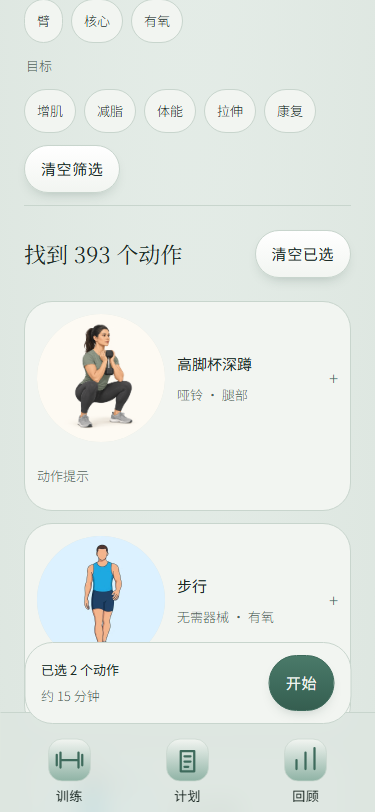
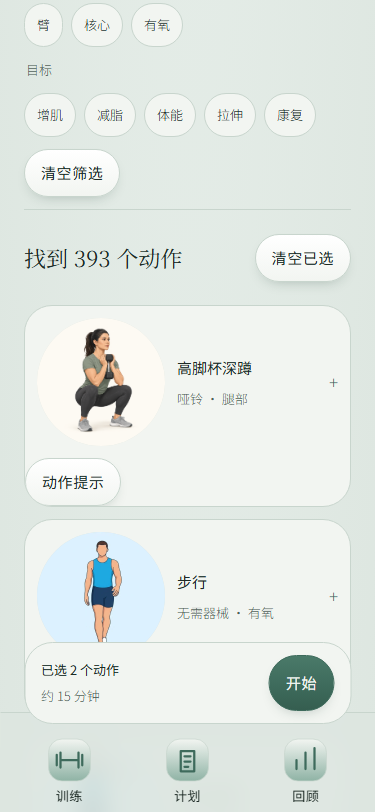
docs: record completed polish audit and refreshed preview evidence

diff --git a/docs/handoff-v8/mainline-polish-plan.md b/docs/handoff-v8/mainline-polish-plan.md
@@ -27,7 +27,7 @@
 4. 集成预览以全新浏览器资料完成两条用户路线；375/1280截图含用户列出的全部状态，四主题数字检查。无真机则明确标注。
 5. 一个 PR 列出四线覆盖、差异、待审项、授权与翻译抽查；CI全绿后等待用户确认。确认后才一次合并/生产发布。
 
-当前：四线实现及8项公网预览验收通过，唯一 PR #52 已创建，CI 检查中。用户已批准新增四步话术及等义英文、保留原形象的本地头像去背景处理。本次 PR 为 #52；未合并 main、未发布生产。
+当前：唯一 PR #52；审计列出的六类缺口及独立审查发现的边界问题均已补齐，最新验证见文末。用户已批准新增四步话术及等义英文、保留原形象的本地头像去背景处理。未合并 main、未发布生产。下文早期证据保留为历史记录，不代表最新部署版本。
 
 ## 集成验收证据
 
@@ -48,3 +48,10 @@
 ## 2026-10-11 审计缺口补齐（同一 PR #52）
 沿用本文件唯一计划，范围仅为六项已确认缺口。动作数据线负责cardio/弹力带/注意标签和后置排序；手动线负责无结果建议、完整指导、AI候选导入；回顾线负责候选时长共用估算；统筹负责动作库完整指导与建议、共享组件及集成。新AI入口复用现有成人门槛、外发清单、明确同意和版本校验；导入手动候选不保存或替换计划，用户开始训练才保存训练记录。无付费模型请求。
 验收：过滤/排序正反例；无结果可选择近似动作；动作库/手动详情有要点、步骤、错误、注意及署名；AI有效/无资格/失败/拒绝/旧版本输入；所有候选时长一致且不改旧记录；375/1280预览及完整CI。未验证的真机和专业姿势审查不伪称完成。
+
+最终修复代码：79aea38。六项缺口已实现：相近结果UI、手动AI候选、筛选标签、注意排序、完整指导、回顾时长。独立审查另外修复收藏候选过滤顺序、重复动作目标保留和手动AI候选时长一致。
+- 类型、构建、样式/话术、前后端提示词边界通过；111个单元文件、888项通过，29跳过/5 todo不计入完成。
+- 手动训练13项集成浏览器通过；最终重复条目/时长变更2项定向复测通过。AI均HTTP模拟，拒绝外发零请求、无资格零生成、服务失败本地候选、旧版本/恢复代次拒绝保存、原计划不变。
+- 动作库4项浏览器通过，包含收藏内建议、器械过滤、完整指导、收藏持久化与英文；回顾时长有缺陷红绿验证及月回顾窗口场景。
+- 预览 Worker：230a990c-7473-4068-a88e-ac57034f897c；仍无生产绑定和供应商密钥。最终公网验收结果见outputs/mainline-polish/README.md；远程完整CI以PR52最新提交检查为准。
+- main/生产未变；需用户验收后才合并发布。桌面模拟不替代真机，中文指导/生成人物姿势未声称专业审核。

diff --git a/outputs/mainline-polish/README.md b/outputs/mainline-polish/README.md
@@ -2,7 +2,13 @@
 
 隔离预览：https://fitness-mainline-polish-preview.initdevl.workers.dev
 
-Worker版本：e133eaf1-5712-4bb2-b1ce-36b228a88e41。2026-10-11，Chromium新浏览器资料，375/1280宽度，合成输入；无真实设备、无付费模型。10项公网预览验收通过（37.3秒），包括新增人物图加载。截图关闭捕获时动画以避免记录胶囊中间帧。
+Worker版本：230a990c-7473-4068-a88e-ac57034f897c；修复代码79aea38。2026-10-11，Chromium新浏览器资料，375/1280宽度，合成输入；无真实设备、无付费模型。最终12项公网预览验收通过（39.8秒），包括两条主线、人物图、无结果相近建议及完整指导。截图关闭捕获时动画以避免记录胶囊中间帧。
+
+新增审计修复截图：
+- [375手动相近结果](preview-375-manual-near-matches.png) / [1280](preview-1280-manual-near-matches.png)
+- [375手动完整指导](preview-375-manual-full-guide.png) / [1280](preview-1280-manual-full-guide.png)
+- [375动作库完整指导](preview-375-library-full-guide.png) / [1280](preview-1280-library-full-guide.png)
+- [375手动AI候选模拟](mock-375-manual-ai-candidate.png) / [1280](mock-1280-manual-ai-candidate.png)：仅本地HTTP合成返回，验证重复动作目标、估算和确认界面，不能当作真实DeepSeek响应证据。
 
 - [preview-1280-appearance-撞色.png](preview-1280-appearance-撞色.png)
 - [preview-1280-appearance-留白.png](preview-1280-appearance-留白.png)

diff --git a/docs/handoff-v8/pending-decisions.md b/docs/handoff-v8/pending-decisions.md
@@ -181,3 +181,5 @@ RepDB官方证据：[数据许可证](https://github.com/RepDB/exercise-dataset/
 | 支撑动作注意标签过粗 | 区分前臂与手掌支撑；提示及排序使用同一标签；不当作医学适用判断 | 避免漏提示和一概标注手腕 | exercise-guide、catalog-service |
 | 详情遗漏部分指导、旧视频参考需保留 | 共享完整Guide内容；动作库保留原可选视频来源且不重复示意图 | 保留署名与已有功能 | ExerciseGuide、ExerciseMedia、ExercisesPage |
 | 回顾候选修改动作后时长过期 | 仅新候选重算实际时长及短版名称；用户原时长和历史不改 | 显示与候选内容一致 | review/suggest、PlanPage、ReviewPage |
+| 收藏条件在建议截断之后才生效 | 新增可选allowedIds，先限定候选再匹配/排序/截断 | 收藏里的近似动作不被非收藏挤掉 | catalog-service、ExercisesPage |
+| 手动候选可能同动作多个目标 | 保留模板全部条目及顺序，卡片只显示唯一动作；预览、对话摘录、底栏和保存快照统一估算 | 不丢目标、不显示互相矛盾的时长 | CoachPanel、ManualPage、v8-workflow |

diff --git a/docs/uiux/UIUX20261008.md b/docs/uiux/UIUX20261008.md
@@ -1143,3 +1143,4 @@ V8恢复必须在同页事件和跨页恢复代次变化时卸载旧输入、训
 
 ### 同日主线审计修正（V8.0.8 / PR #52）
 无结果相近动作在原筛选内呈现且可选择；注意部位先于匹配分数排序，所有原匹配仍保留。器械筛选弹力带包含环形带，有氧类别计入有氧部位。动作库和手动详情复用完整指导与署名。手动芽芽搭配复用现有AI同意/确认面板，候选仅导入本次手动选择，开始后保存训练，不改当前计划；无资格/模型失败保留本地规则。回顾的短版、替换和进阶候选时长统一由共享估算计算，旧计划不回写。
+收藏过滤先于候选匹配和截断。手动AI候选同一动作的多个条目保留各自组数、目标及顺序；卡片计数按唯一动作，训练按全部条目执行。候选预览、对话摘录、底栏和保存快照使用同一估算时长；没有已保存计划时可使用明确成人确认快照，已有未成年资料仍否决，导入和开始均检查数据版本及恢复代数。
